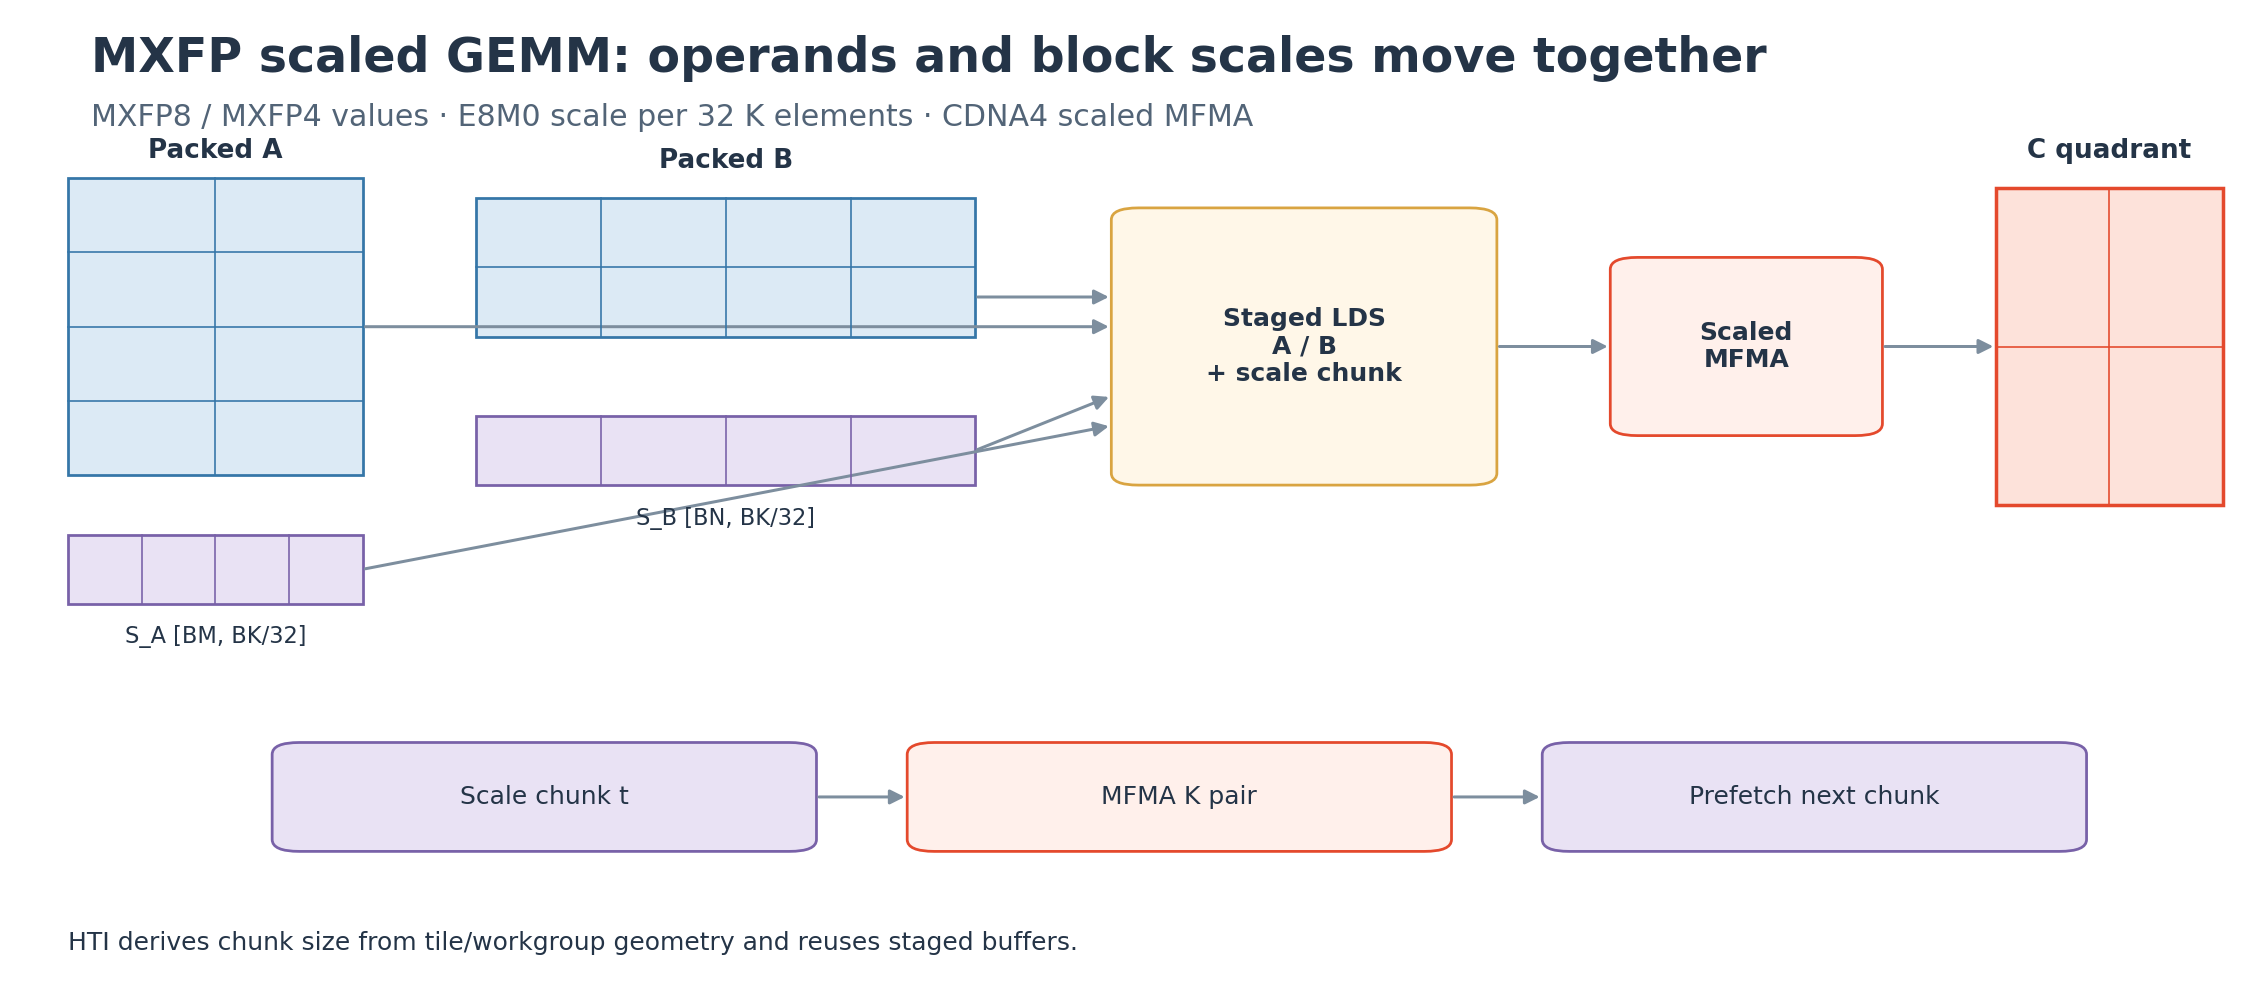
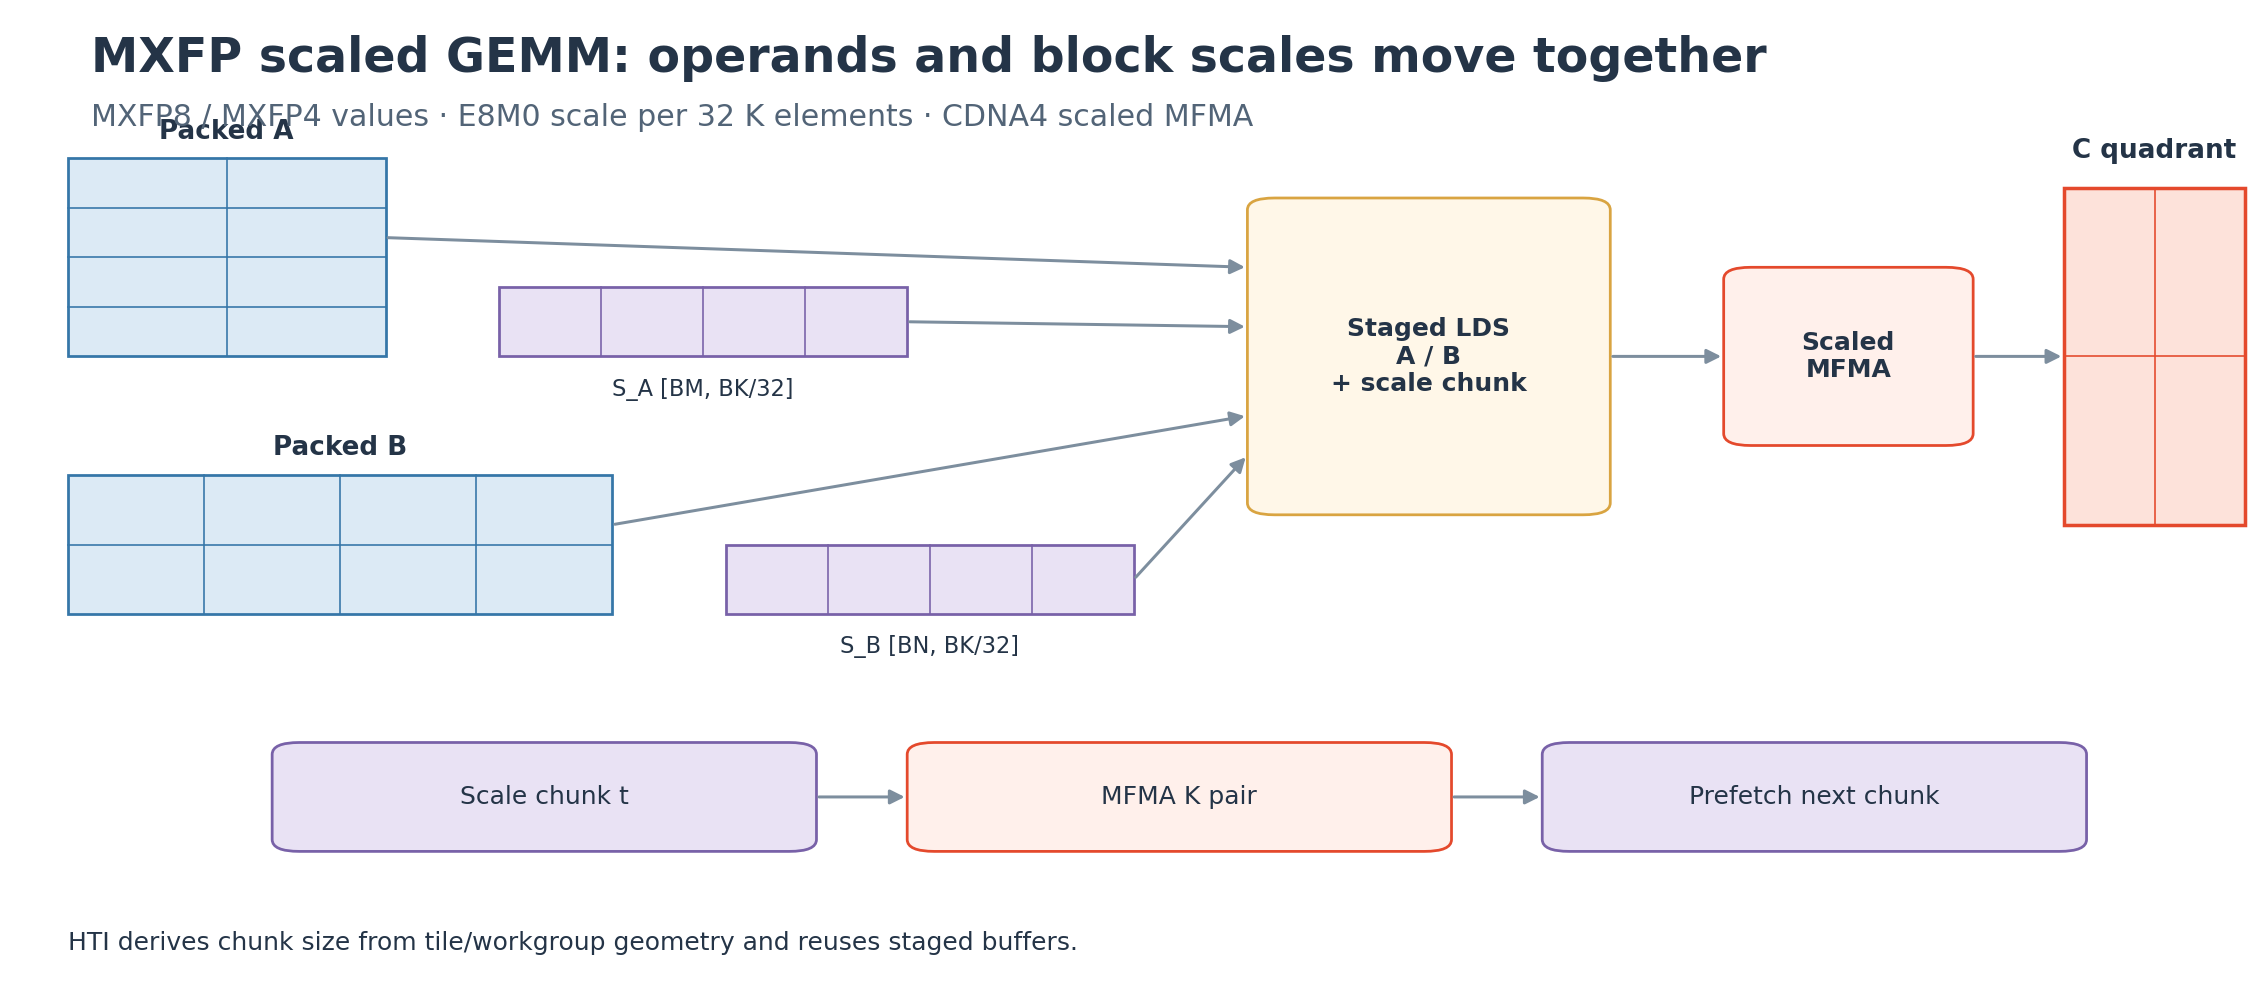
docs: remove scheduling diagram overlaps
Reroute MXFP operand and scale connectors, mask labels over tile grids, and keep Grouped GEMM stream annotations clear of expert-to-tile arrows.

Changed region(s): [[0.0309, 0.1212, 1.0, 0.6667], [0.4938, 0.1818, 0.7099, 0.2121]]

diff --git a/docs/_static/flydsl-pytorch-backend/generate_figures.py b/docs/_static/flydsl-pytorch-backend/generate_figures.py
@@ -269,7 +269,16 @@ def scheduling_diagrams():
     for col in range(1, 4):
         xx = 70 + 13.5 * col / 4
         dense.plot([xx, xx], [57, 78], color=PURPLE, linewidth=0.7)
-    dense.text(76.75, 67.5, "C00\n2 × 4 waves", ha="center", va="center", fontsize=7.5, fontweight="bold")
+    dense.text(
+        76.75,
+        67.5,
+        "C00\n2 × 4 waves",
+        ha="center",
+        va="center",
+        fontsize=7.5,
+        fontweight="bold",
+        bbox={"facecolor": "#FDE2DA", "edgecolor": "none", "pad": 1},
+    )
     dense.text(90.25, 67.5, "C01", ha="center", va="center", fontsize=8.5, fontweight="bold")
     dense.text(76.75, 46.5, "C10", ha="center", va="center", fontsize=8.5, fontweight="bold")
     dense.text(90.25, 46.5, "C11", ha="center", va="center", fontsize=8.5, fontweight="bold")
@@ -284,25 +293,25 @@ def scheduling_diagrams():
         "MXFP scaled GEMM: operands and block scales move together",
         "MXFP8 / MXFP4 values · E8M0 scale per 32 K elements · CDNA4 scaled MFMA",
     )
-    grid_rect(mxfp, 3, 52, 13, 30, 4, 2, "#DCEAF5")
-    grid_rect(mxfp, 21, 66, 22, 14, 2, 4, "#DCEAF5")
-    grid_rect(mxfp, 3, 39, 13, 7, 1, 4, "#E9E2F4", edge=PURPLE)
-    grid_rect(mxfp, 21, 51, 22, 7, 1, 4, "#E9E2F4", edge=PURPLE)
-    mxfp.text(9.5, 84, "Packed A", ha="center", fontsize=10.5, fontweight="bold")
-    mxfp.text(32, 83, "Packed B", ha="center", fontsize=10.5, fontweight="bold")
-    mxfp.text(9.5, 35, "S_A [BM, BK/32]", ha="center", fontsize=9)
-    mxfp.text(32, 47, "S_B [BN, BK/32]", ha="center", fontsize=9)
-    box(mxfp, 49, 51, 17, 28, "Staged LDS\nA / B\n+ scale chunk", fill="#FFF7E8", edge="#D9A441", bold=True)
-    box(mxfp, 71, 56, 12, 18, "Scaled\nMFMA", fill="#FFF0EB", edge=ORANGE, bold=True)
-    grid_rect(mxfp, 88, 49, 10, 32, 2, 2, "#FDE2DA", edge=ORANGE, linewidth=1.4)
-    mxfp.text(93, 84, "C quadrant", ha="center", fontsize=10.5, fontweight="bold")
+    grid_rect(mxfp, 3, 64, 14, 20, 4, 2, "#DCEAF5")
+    grid_rect(mxfp, 3, 38, 24, 14, 2, 4, "#DCEAF5")
+    grid_rect(mxfp, 22, 64, 18, 7, 1, 4, "#E9E2F4", edge=PURPLE)
+    grid_rect(mxfp, 32, 38, 18, 7, 1, 4, "#E9E2F4", edge=PURPLE)
+    mxfp.text(10, 86, "Packed A", ha="center", fontsize=10.5, fontweight="bold")
+    mxfp.text(15, 54, "Packed B", ha="center", fontsize=10.5, fontweight="bold")
+    mxfp.text(31, 60, "S_A [BM, BK/32]", ha="center", fontsize=9)
+    mxfp.text(41, 34, "S_B [BN, BK/32]", ha="center", fontsize=9)
+    box(mxfp, 55, 48, 16, 32, "Staged LDS\nA / B\n+ scale chunk", fill="#FFF7E8", edge="#D9A441", bold=True)
+    box(mxfp, 76, 55, 11, 18, "Scaled\nMFMA", fill="#FFF0EB", edge=ORANGE, bold=True)
+    grid_rect(mxfp, 91, 47, 8, 34, 2, 2, "#FDE2DA", edge=ORANGE, linewidth=1.4)
+    mxfp.text(95, 84, "C quadrant", ha="center", fontsize=10.5, fontweight="bold")
     for start, end in [
-        ((16, 67), (49, 67)),
-        ((43, 70), (49, 70)),
-        ((16, 42.5), (49, 57)),
-        ((43, 54.5), (49, 60)),
-        ((66, 65), (71, 65)),
-        ((83, 65), (88, 65)),
+        ((17, 76), (55, 73)),
+        ((40, 67.5), (55, 67)),
+        ((27, 47), (55, 58)),
+        ((50, 41.5), (55, 54)),
+        ((71, 64), (76, 64)),
+        ((87, 64), (91, 64)),
     ]:
         arrow(mxfp, start, end)
     box(mxfp, 12, 14, 24, 11, "Scale chunk t", fill="#E9E2F4", edge=PURPLE)
@@ -342,7 +351,15 @@ def scheduling_diagrams():
             fontweight="bold",
             bbox={"facecolor": fill, "edgecolor": "none", "pad": 1},
         )
-    grouped.text(3, 42, "Flatten valid matrix tiles into one global stream", fontsize=11, fontweight="bold")
+    grouped.text(
+        3,
+        42,
+        "Flatten valid matrix tiles into one global stream",
+        fontsize=11,
+        fontweight="bold",
+        bbox={"facecolor": "white", "edgecolor": "none", "pad": 2},
+        zorder=4,
+    )
     for x, label in [(3, "E0·0"), (19, "E0·1"), (35, "E1·0"), (51, "E1·1"), (67, "E3·0"), (83, "E3·1")]:
         box(grouped, x, 29, 13, 9, label, fill="#FFF0EB", edge=ORANGE, size=9.5)
     arrow(grouped, (13, 54), (10, 39))
